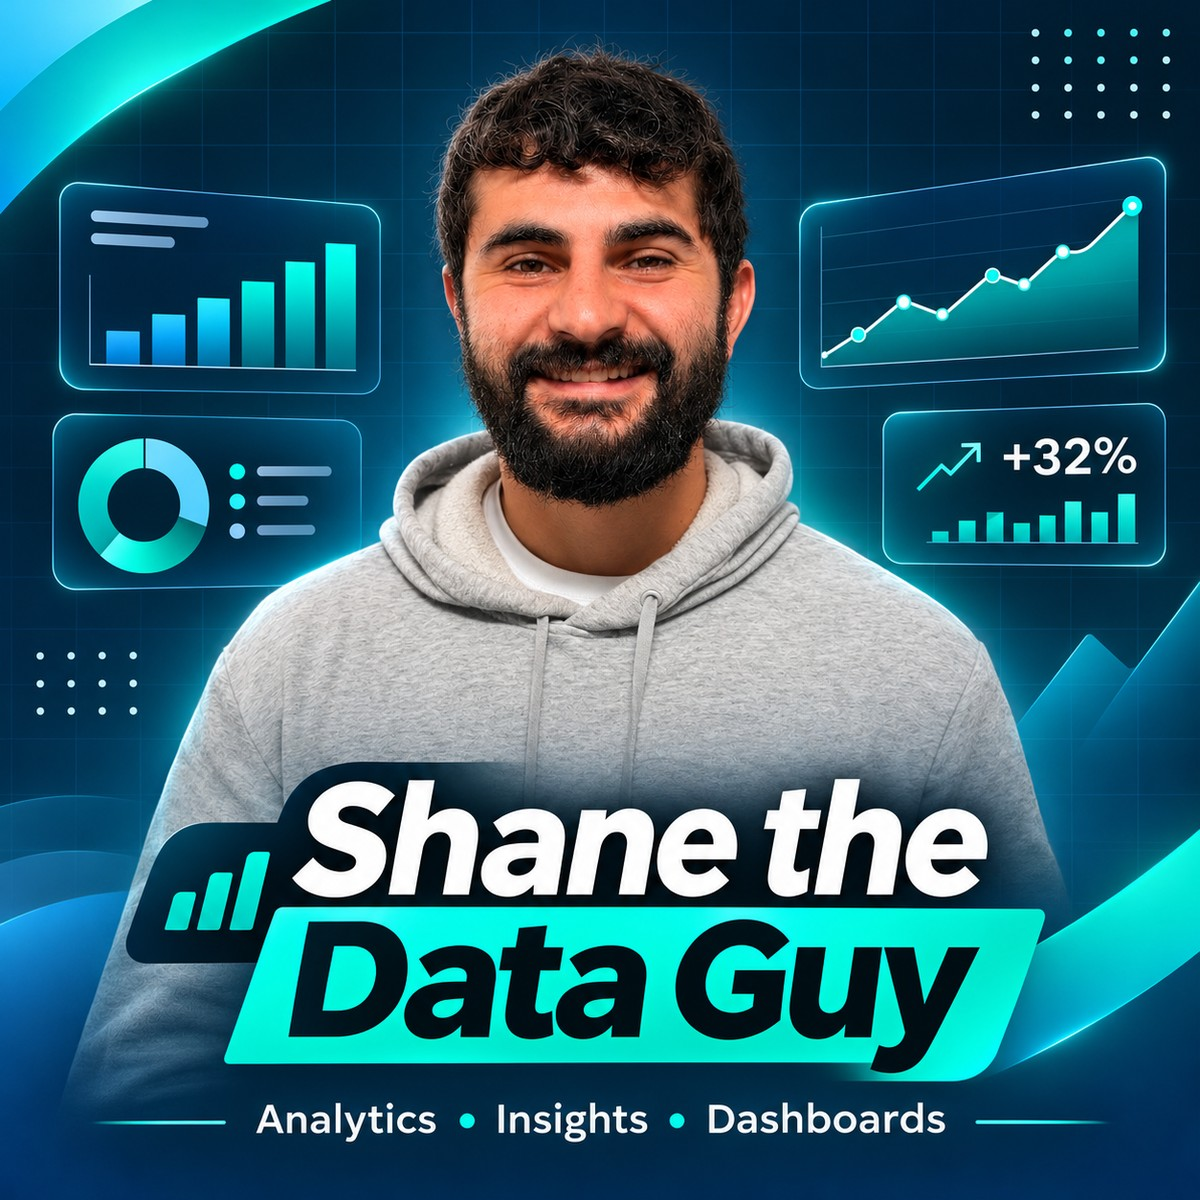
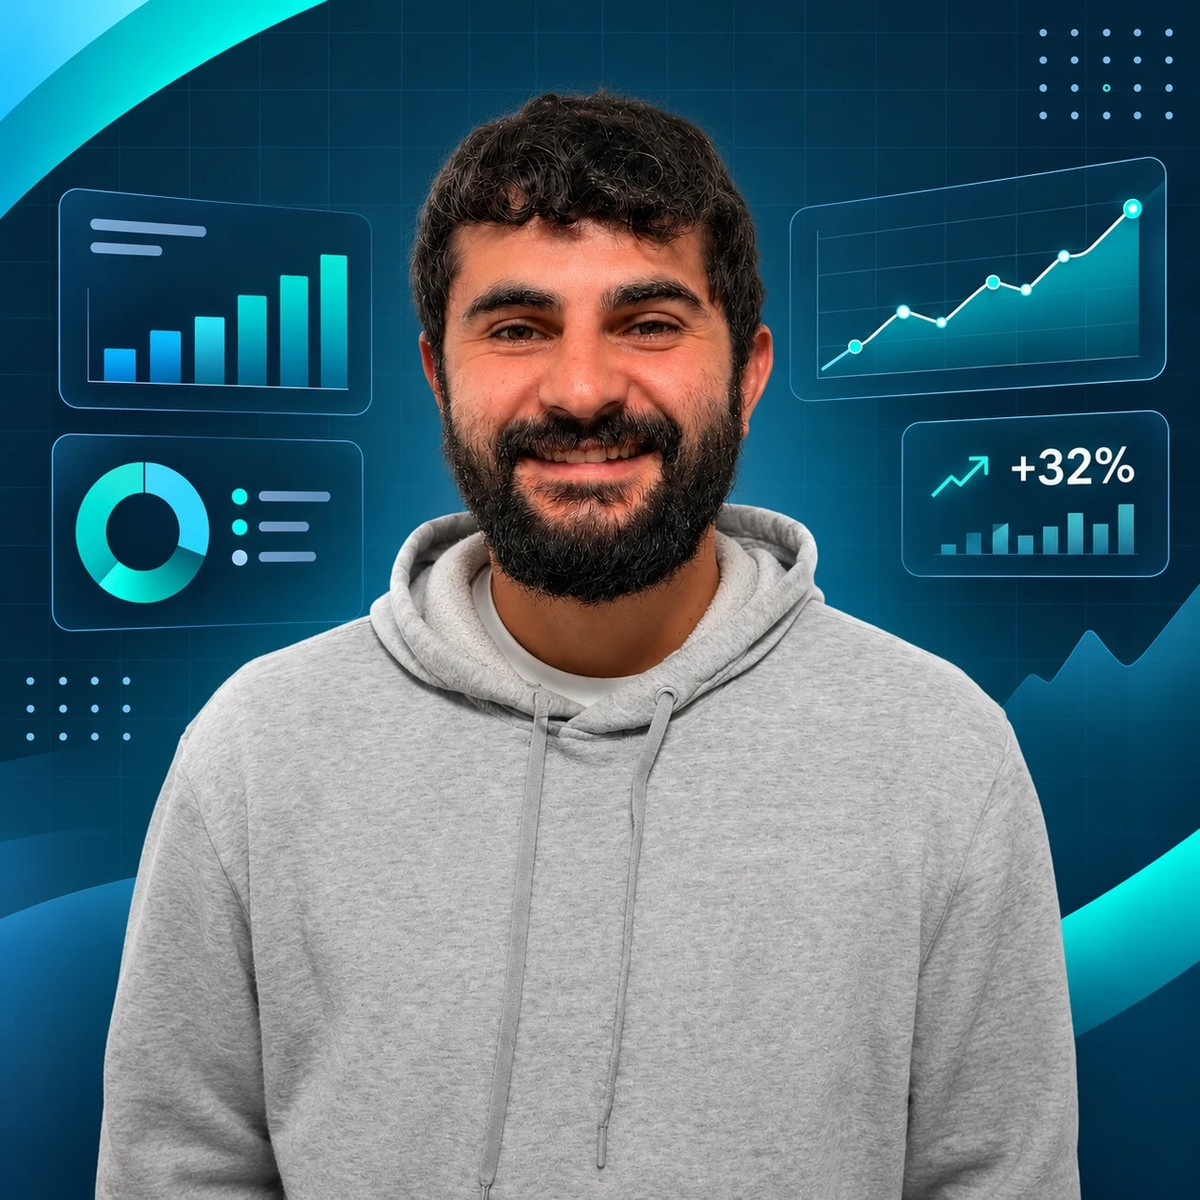
Name heading back, and the card without its own lockup
The hero image is the version with no name band, so the heading carries
the name again and it is said once. Photo budget returns with it, and
all five phones still clear the fold: SE +14, iPhone 14 +16, Pixel +16,
Plus +16, Pro Max +28.

diff --git a/index.html b/index.html
@@ -184,17 +184,24 @@ a{color:inherit;}
 /* ---------- hero ---------- */
 .hero{
   display:grid;grid-template-columns:minmax(0,1fr) minmax(0,400px);
-  grid-template-areas:"copy photo";
+  grid-template-areas:"head photo" "copy photo";
   gap:0 72px;align-items:center;
   padding:72px 0 76px;
 }
-/* The card carries the name, so the heading is the line that says
-   what the page is for. */
-h1.hero-lead{
-  margin:0 0 26px;max-width:none;
+h1{
+  grid-area:head;
   font-family:var(--display);font-weight:800;
-  font-size:clamp(32px,3.9vw,48px);line-height:1.1;
-  letter-spacing:-.04em;color:var(--ink);
+  font-size:clamp(40px,4.7vw,58px);line-height:1;
+  letter-spacing:-.045em;margin:0 0 18px;
+}
+h1 .alias{color:var(--red);}
+/* When the name has to wrap, it breaks as "Shane the / Data Guy". */
+h1 .keep{white-space:nowrap;}
+.hero-lead{
+  margin:0 0 26px;max-width:none;
+  font-family:var(--display);font-weight:700;
+  font-size:clamp(26px,2.85vw,36px);line-height:1.12;
+  letter-spacing:-.035em;color:var(--ink);
 }
 /* Hand-drawn underline under the closing words, the way the
    mock-up has it. Tied to the words, so it rides any wrap. */
@@ -541,14 +548,15 @@ footer a:hover{color:var(--red);}
   .navlinks{display:none;}
   .sheet{padding:0 24px 0;}
   /* Stacked: headline, photo, then the copy and the button. */
-  .hero{grid-template-columns:1fr;grid-template-areas:"photo" "copy";
+  .hero{grid-template-columns:1fr;grid-template-areas:"head" "photo" "copy";
         gap:26px;padding:40px 0 52px;}
   .hero-side{max-width:340px;margin:0 auto;}
   .portrait{display:flex;justify-content:center;}
   .portrait .frame{display:inline-block;}
   .portrait img{width:auto;height:auto;max-width:100%;max-height:42vh;
-                 max-height:max(70px, min(40svh, calc(100svh - 385px)));}
-  h1.hero-lead{font-size:34px;max-width:none;}
+                 max-height:max(70px, min(40svh, calc(100svh - 435px)));}
+  h1{font-size:46px;margin-bottom:0;}
+  .hero-lead{font-size:30px;max-width:none;}
   .profile-grid{grid-template-columns:1fr;gap:44px;}
   .sec{margin-bottom:84px;}
   .proof{margin-bottom:84px;}
@@ -564,7 +572,8 @@ footer a:hover{color:var(--red);}
   .topbar-in{padding:0 20px;height:62px;}
   .hero{gap:18px;padding:20px 0 40px;}
   .hero-intro{font-size:16.5px;line-height:1.55;margin-bottom:14px;}
-  h1.hero-lead{font-size:28px;margin-bottom:18px;}
+  h1{font-size:38px;text-align:center;}
+  .hero-lead{font-size:24px;margin-bottom:18px;}
   .hero-actions{flex-direction:column;align-items:stretch;gap:16px;}
   .hero-email{width:100%;padding:11px 22px;}
   .hero-meta{padding-left:0;border-left:0;align-items:center;gap:8px;}
@@ -601,9 +610,10 @@ footer a:hover{color:var(--red);}
    so the whole block still clears the fold. */
 @media (max-width:620px) and (max-height:600px){
   .hero{gap:12px;padding:14px 0 36px;}
-  h1.hero-lead{font-size:23px;margin-bottom:12px;}
+  h1{font-size:30px;}
+  .hero-lead{font-size:20px;margin-bottom:12px;}
   .hero-intro{font-size:15px;line-height:1.5;margin-bottom:12px;}
-  .portrait img{max-height:max(70px, min(45svh, calc(100svh - 341px)));}
+  .portrait img{max-height:max(70px, min(45svh, calc(100svh - 375px)));}
 }
 </style>
 
@@ -624,13 +634,14 @@ footer a:hover{color:var(--red);}
 <div class="sheet">
 
   <header class="hero" id="top">
+    <h1>Shane <span class="alias">the <span class="keep">Data Guy</span></span></h1>
     <div class="hero-side">
       <figure class="portrait">
         <div class="frame"><img src="assets/shane-card.jpg" alt="Shane the Data Guy" width="1200" height="1200"></div>
       </figure>
     </div>
     <div class="hero-copy">
-      <h1 class="hero-lead">Sometimes you just need to <span class="swoosh">talk to someone.<svg viewBox="0 0 200 12" preserveAspectRatio="none" aria-hidden="true"><path d="M3 8.6C48 2.4 152 2.4 197 6.6"/></svg></span></h1>
+      <p class="hero-lead">Sometimes you just need to <span class="swoosh">talk to someone.<svg viewBox="0 0 200 12" preserveAspectRatio="none" aria-hidden="true"><path d="M3 8.6C48 2.4 152 2.4 197 6.6"/></svg></span></p>
       <p class="hero-intro">Hi, I&rsquo;m Shane the Data Guy! I can help you Import, Export, Clean, and Report on your data. And when a spreadsheet isn&rsquo;t cutting it anymore, I can build you a custom web app. Email me for a free consultation.</p>
       <div class="hero-actions">
         <a class="btn btn-dark hero-email" href="mailto:cannshan@gmail.com" data-copy="cannshan@gmail.com">Email me <span class="arr" aria-hidden="true">&rarr;</span></a>

diff --git a/portfolio.html b/portfolio.html
@@ -155,17 +155,24 @@ a{color:inherit;}
 /* ---------- hero ---------- */
 .hero{
   display:grid;grid-template-columns:minmax(0,1fr) minmax(0,400px);
-  grid-template-areas:"copy photo";
+  grid-template-areas:"head photo" "copy photo";
   gap:0 72px;align-items:center;
   padding:72px 0 76px;
 }
-/* The card carries the name, so the heading is the line that says
-   what the page is for. */
-h1.hero-lead{
-  margin:0 0 26px;max-width:none;
+h1{
+  grid-area:head;
   font-family:var(--display);font-weight:800;
-  font-size:clamp(32px,3.9vw,48px);line-height:1.1;
-  letter-spacing:-.04em;color:var(--ink);
+  font-size:clamp(40px,4.7vw,58px);line-height:1;
+  letter-spacing:-.045em;margin:0 0 18px;
+}
+h1 .alias{color:var(--red);}
+/* When the name has to wrap, it breaks as "Shane the / Data Guy". */
+h1 .keep{white-space:nowrap;}
+.hero-lead{
+  margin:0 0 26px;max-width:none;
+  font-family:var(--display);font-weight:700;
+  font-size:clamp(26px,2.85vw,36px);line-height:1.12;
+  letter-spacing:-.035em;color:var(--ink);
 }
 /* Hand-drawn underline under the closing words, the way the
    mock-up has it. Tied to the words, so it rides any wrap. */
@@ -512,14 +519,15 @@ footer a:hover{color:var(--red);}
   .navlinks{display:none;}
   .sheet{padding:0 24px 0;}
   /* Stacked: headline, photo, then the copy and the button. */
-  .hero{grid-template-columns:1fr;grid-template-areas:"photo" "copy";
+  .hero{grid-template-columns:1fr;grid-template-areas:"head" "photo" "copy";
         gap:26px;padding:40px 0 52px;}
   .hero-side{max-width:340px;margin:0 auto;}
   .portrait{display:flex;justify-content:center;}
   .portrait .frame{display:inline-block;}
   .portrait img{width:auto;height:auto;max-width:100%;max-height:42vh;
-                 max-height:max(70px, min(40svh, calc(100svh - 385px)));}
-  h1.hero-lead{font-size:34px;max-width:none;}
+                 max-height:max(70px, min(40svh, calc(100svh - 435px)));}
+  h1{font-size:46px;margin-bottom:0;}
+  .hero-lead{font-size:30px;max-width:none;}
   .profile-grid{grid-template-columns:1fr;gap:44px;}
   .sec{margin-bottom:84px;}
   .proof{margin-bottom:84px;}
@@ -535,7 +543,8 @@ footer a:hover{color:var(--red);}
   .topbar-in{padding:0 20px;height:62px;}
   .hero{gap:18px;padding:20px 0 40px;}
   .hero-intro{font-size:16.5px;line-height:1.55;margin-bottom:14px;}
-  h1.hero-lead{font-size:28px;margin-bottom:18px;}
+  h1{font-size:38px;text-align:center;}
+  .hero-lead{font-size:24px;margin-bottom:18px;}
   .hero-actions{flex-direction:column;align-items:stretch;gap:16px;}
   .hero-email{width:100%;padding:11px 22px;}
   .hero-meta{padding-left:0;border-left:0;align-items:center;gap:8px;}
@@ -572,9 +581,10 @@ footer a:hover{color:var(--red);}
    so the whole block still clears the fold. */
 @media (max-width:620px) and (max-height:600px){
   .hero{gap:12px;padding:14px 0 36px;}
-  h1.hero-lead{font-size:23px;margin-bottom:12px;}
+  h1{font-size:30px;}
+  .hero-lead{font-size:20px;margin-bottom:12px;}
   .hero-intro{font-size:15px;line-height:1.5;margin-bottom:12px;}
-  .portrait img{max-height:max(70px, min(45svh, calc(100svh - 341px)));}
+  .portrait img{max-height:max(70px, min(45svh, calc(100svh - 375px)));}
 }
 </style>
 
@@ -595,13 +605,14 @@ footer a:hover{color:var(--red);}
 <div class="sheet">
 
   <header class="hero" id="top">
+    <h1>Shane <span class="alias">the <span class="keep">Data Guy</span></span></h1>
     <div class="hero-side">
       <figure class="portrait">
         <div class="frame"><img src="assets/shane-card.jpg" alt="Shane the Data Guy" width="1200" height="1200"></div>
       </figure>
     </div>
     <div class="hero-copy">
-      <h1 class="hero-lead">Sometimes you just need to <span class="swoosh">talk to someone.<svg viewBox="0 0 200 12" preserveAspectRatio="none" aria-hidden="true"><path d="M3 8.6C48 2.4 152 2.4 197 6.6"/></svg></span></h1>
+      <p class="hero-lead">Sometimes you just need to <span class="swoosh">talk to someone.<svg viewBox="0 0 200 12" preserveAspectRatio="none" aria-hidden="true"><path d="M3 8.6C48 2.4 152 2.4 197 6.6"/></svg></span></p>
       <p class="hero-intro">Hi, I&rsquo;m Shane the Data Guy! I can help you Import, Export, Clean, and Report on your data. And when a spreadsheet isn&rsquo;t cutting it anymore, I can build you a custom web app. Email me for a free consultation.</p>
       <div class="hero-actions">
         <a class="btn btn-dark hero-email" href="mailto:cannshan@gmail.com" data-copy="cannshan@gmail.com">Email me <span class="arr" aria-hidden="true">&rarr;</span></a>
